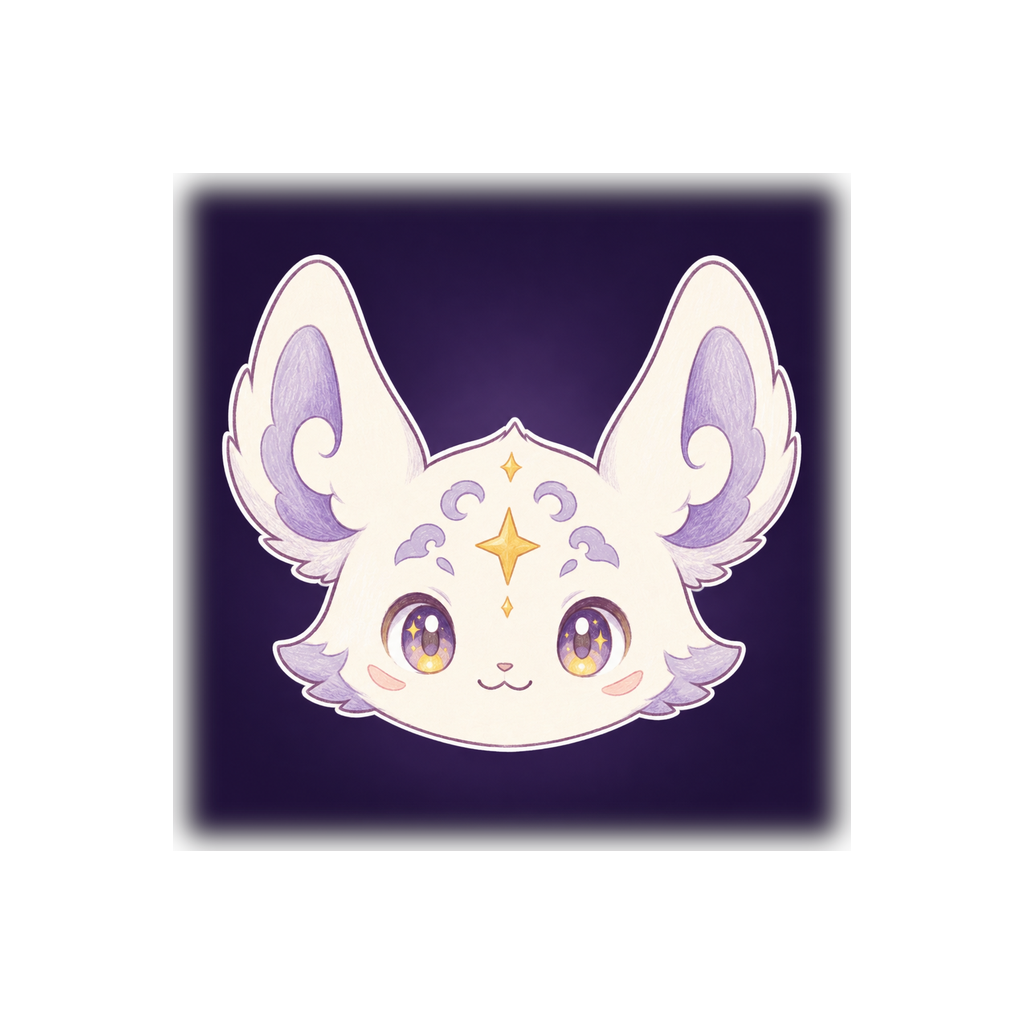
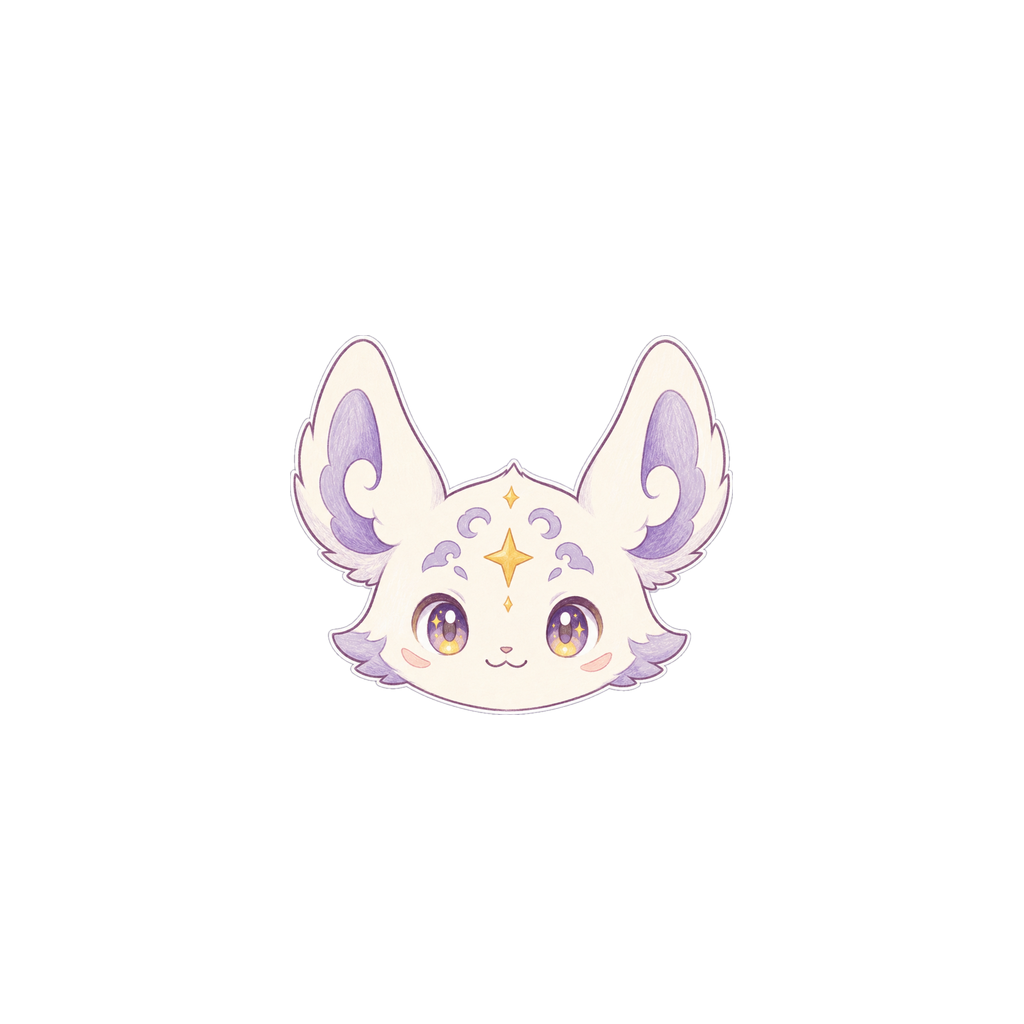
feat(app): 앱 아이콘 캐릭터 65%로 줄임 — iOS·안드로이드 같은 비율
운영자 B안(11-09). 기존 그림에서 캐릭터만 떼어 줄였다(새로 그리지 않음).
안드로이드는 앞판을 투명 얼굴만, 뒤판을 iOS 와 같은 밤색 번짐 그림으로 나눠
둥근네모 폰의 어두운 테와 동그라미 폰의 귀 끝 잘림을 없앴다.

diff --git a/mobile/app.config.ts b/mobile/app.config.ts
@@ -46,8 +46,9 @@ const config: ExpoConfig = {
   },
   android: {
     package: BUNDLE_ID,
-    // 별콩이 얼굴(앱 화면 4단계, 운영자 A안 11-09) — 배경색은 그림 가장자리 색(night 계열)과 같게 해 이음새가 안 보이게
-    adaptiveIcon: { foregroundImage: "./assets/adaptive-icon.png", backgroundColor: "#201238" },
+    // 별콩이 얼굴(디자인 다듬기 ②, 운영자 B안 11-09 — 캐릭터 폭은 보이는 칸의 65%, iOS icon.png 와 같은 비율)
+    // 앞판은 투명 바탕 얼굴만, 뒤판은 iOS 와 같은 밤색 번짐. 둘 다 108dp 중 가운데 72dp 가 보이는 기준으로 만들었다
+    adaptiveIcon: { foregroundImage: "./assets/adaptive-icon.png", backgroundImage: "./assets/adaptive-icon-bg.png", backgroundColor: "#201238" },
     // 없으면 키째 뺀다(위 GOOGLE_SERVICES_FILE) — null 은 직렬화에서 {} 로 바뀐다(아래 extra 주석)
     ...(GOOGLE_SERVICES_FILE ? { googleServicesFile: GOOGLE_SERVICES_FILE } : {}),
   },
